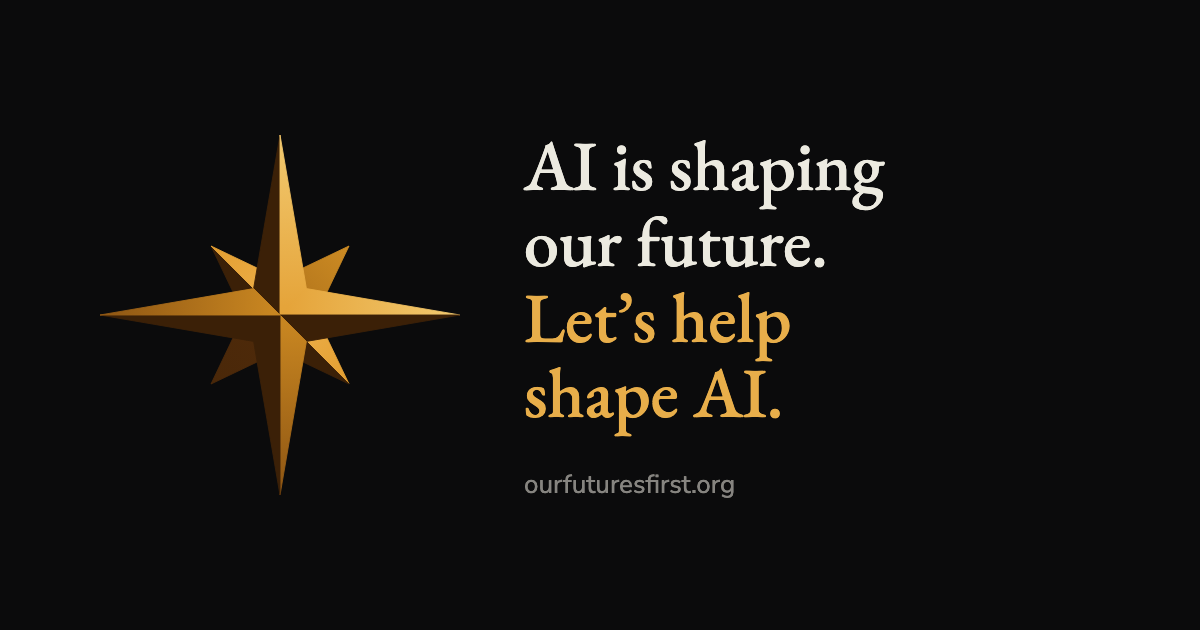
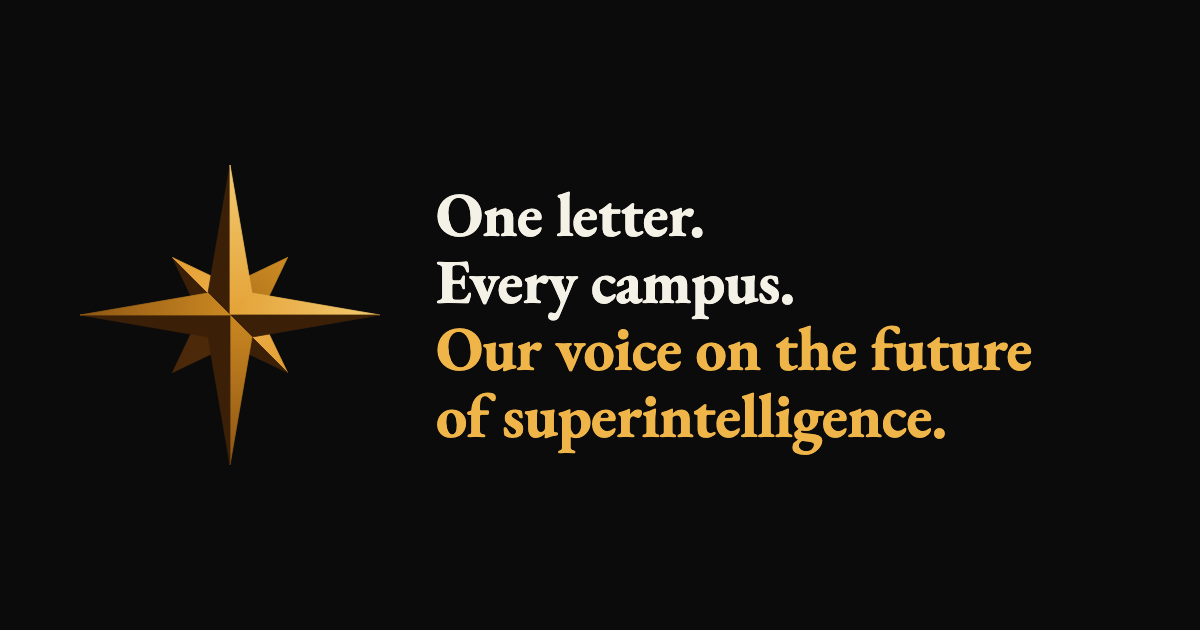
Link preview image: 'One letter. Every campus. Our voice on the future of superintelligence.', no web address

diff --git a/index.html b/index.html
@@ -11,16 +11,16 @@
 <meta property="og:title" content="Students are writing a letter about AI. Add your voice.">
 <meta property="og:site_name" content="Our Futures First">
 <meta property="og:description" content="Students are writing an open letter on regulating AI development and asking what belongs in it. Open to anyone at a U.S. university.">
-<meta property="og:image" content="https://ourfuturesfirst.org/og.png?v=3">
+<meta property="og:image" content="https://ourfuturesfirst.org/og.png?v=4">
 <meta property="og:image:width" content="1200">
 <meta property="og:image:height" content="630">
-<meta property="og:image:alt" content="A gold compass star beside the words: AI is shaping our future. Let’s help shape AI.">
+<meta property="og:image:alt" content="A gold compass star beside the words: One letter. Every campus. Our voice on the future of superintelligence.">
 <meta property="og:url" content="https://ourfuturesfirst.org/">
 <link rel="canonical" href="https://ourfuturesfirst.org/">
 <meta name="twitter:card" content="summary_large_image">
 <meta name="twitter:title" content="Students are writing a letter about AI. Add your voice.">
 <meta name="twitter:description" content="Students are writing an open letter on regulating AI development and asking what belongs in it.">
-<meta name="twitter:image" content="https://ourfuturesfirst.org/og.png?v=3">
+<meta name="twitter:image" content="https://ourfuturesfirst.org/og.png?v=4">
 <link rel="icon" type="image/svg+xml" href="assets/favicon.svg?v=gold">
 <link rel="preconnect" href="https://fonts.googleapis.com">
 <link rel="preconnect" href="https://fonts.gstatic.com" crossorigin>

diff --git a/functions/_middleware.js b/functions/_middleware.js
@@ -26,15 +26,15 @@ const PREVIEW = `<meta property="og:type" content="website">
 <meta property="og:site_name" content="Our Futures First">
 <meta property="og:title" content="Students are writing a letter about AI. Add your voice.">
 <meta property="og:description" content="Students are writing an open letter on regulating AI development and asking what belongs in it. Open to anyone at a U.S. university.">
-<meta property="og:image" content="https://ourfuturesfirst.org/og.png?v=3">
+<meta property="og:image" content="https://ourfuturesfirst.org/og.png?v=4">
 <meta property="og:image:width" content="1200">
 <meta property="og:image:height" content="630">
-<meta property="og:image:alt" content="A gold compass star beside the words: AI is shaping our future. Let’s help shape AI.">
+<meta property="og:image:alt" content="A gold compass star beside the words: One letter. Every campus. Our voice on the future of superintelligence.">
 <meta property="og:url" content="https://ourfuturesfirst.org/">
 <meta name="twitter:card" content="summary_large_image">
 <meta name="twitter:title" content="Students are writing a letter about AI. Add your voice.">
 <meta name="twitter:description" content="Students are writing an open letter on regulating AI development and asking what belongs in it.">
-<meta name="twitter:image" content="https://ourfuturesfirst.org/og.png?v=3">
+<meta name="twitter:image" content="https://ourfuturesfirst.org/og.png?v=4">
 <link rel="icon" type="image/svg+xml" href="/assets/favicon.svg?v=gold">`;
 
 function notFound() {

diff --git a/shared-context.md b/shared-context.md
@@ -59,7 +59,7 @@ that makes it true.
 - 2026-11-28 David: the site serves only its own files, gated or not. `functions/_middleware.js` answers 404 for
   everything else in the repo. A new file the pages use must be added to its `SITE` list (or live under `assets/`).
   To go public, set `GATED = false` there; never delete the file, or the whole repo is served.
-- 2026-11-28 David: link previews (iMessage and others) show the gold star with "AI is shaping our future. Let’s help shape AI." (`og.png`) and the title "Students are writing
+- 2026-11-28 David: link previews (iMessage and others) show the gold star with "One letter. Every campus. Our voice on the future of superintelligence." (`og.png`) and the title "Students are writing
   a letter about AI. Add your voice." The password page carries the same preview tags (`PREVIEW` in
   `functions/_middleware.js`): change them together with index.html's, and bump `?v=` on the image when it changes.
 
